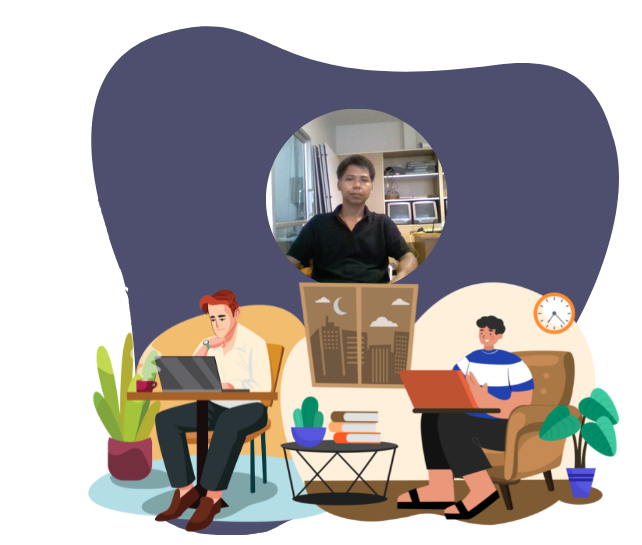
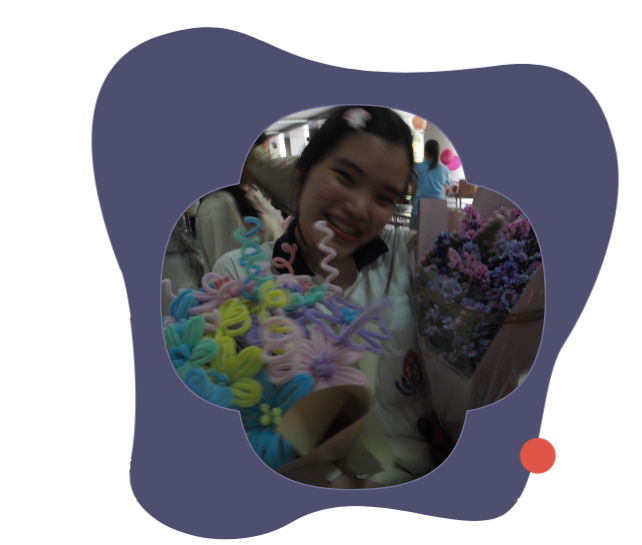
remain

diff --git a/index.html b/index.html
@@ -82,8 +82,8 @@
                         <div class="container">
                             <div class="number-email-cv">
                                 <ul class="number-email">
-                                    <li>มือถือ: (+66) 09-7247-812888</li>
-                                    <li>อีเมล์: pattanadevelop@gmail.com</li>
+                                    <li>มือถือ: (+66) 09-2934-958</li>
+                                    <li>อีเมล์: 31885@ds.ac.th</li>
                                 </ul>
                                     <li><a href="index.html">ไทย</a> | <a href="index-en.html">อังกฤษ</a></li>
                             </div>
@@ -91,10 +91,10 @@
                                 <div class="col-lg-5">
                                     <div class="about-content pt-100 rpt-0 animate-element delay5 fadeInUp">
                                         <span class="sub-title mb-15 animate-element delay3 fadeInUp">เกี่ยวกับฉัน</span>
-                                        <h2 class="slide-title animate-element delay5 fadeInUp">สวัสดีขอรับ,<br> ผม <span class="text-typed a-typed a-typed-about" data-text="พัฒนา บุญถึง"></span></h2>
+                                        <h2 class="slide-title animate-element delay5 fadeInUp">สวัสดีขอรับ,<br> ผม <span class="text-typed a-typed a-typed-about" data-text="วิมลสิริ ธรรมพันดุง"></span></h2>
                                         <h3 class="animate-element delay7 fadeInUp">โรงเรียนดาราสมุทร ศรีราชา</h3>
-                                        <p class="animate-element delay8 fadeInUp">วัน เดือน ปีเกิด<b>::)</b>  10 สิงหาคม 2521.</p>
-                                        <p class="animate-element delay8 fadeInUp">ชื่อเล่น<b>::)</b>  ยางมะตอย.</p>
+                                        <p class="animate-element delay8 fadeInUp">วัน เดือน ปีเกิด<b>::)</b>  12 กันยายน 2006.</p>
+                                        <p class="animate-element delay8 fadeInUp">ชื่อเล่น<b>::)</b>  ไอซ์.</p>
                                         <p class="animate-element delay8 fadeInUp">คติประจำใจ<b>::)</b>  อนาคตขึ้นอยู่กับสิ่งที่เราทำในปัจจุบัน.</p>
                                         <div class="social-style-one mt-55 rmt-35 animate-element delay10 fadeInUp">
                                             <a href="https://www.facebook.com/sirachadevelop"><i class="fab fa-facebook-f"></i></a>
@@ -124,7 +124,7 @@
                                     <div class="service-image animate-element delay4 fadeInUp">
                                         <span class="sub-title mb-75">ไลท์สไตล์</span>
                                         <div class="service-inner-images">
-                                            <img src="assets/images/lifestyle/lifestyle.png" alt="Service">
+                                            <img src="assets/images/lifestyle/lifestyles.png" alt="Service">
                                             <img class="shape-one animate-element delay6 bounceIn" src="assets/images/lifestyle/shape-one-dark.png" alt="shape">
                                             <img class="shape-two animate-element delay8 bounceIn" src="assets/images/lifestyle/shape-two-dark.png" alt="shape">
                                         </div>
@@ -147,13 +147,13 @@
                                                 <div class="icon">
                                                     <img src="assets/images/lifestyle/service-icon2.png" alt="Icon">
                                                 </div>
-                                                <h4>เล่นเฟสต์บุ๊ค</h4>
+                                                <h4>ร้องเพลง</h4>
                                             </div>
                                             <div class="service-item">
                                                 <div class="icon">
                                                     <img src="assets/images/lifestyle/service-icon3.png" alt="Icon">
                                                 </div>
-                                                <h4>ดูยูทูป</h4>
+                                                <h4>ทำงานบ้าน</h4>
                                             </div>
                                             <div class="service-item">
                                                 <div class="icon">
@@ -310,28 +310,28 @@
                             </div>
                             <div class="portfolio-wrap">
                                 <div class="portfolio-item animate-element delay11 fadeInUp">
-                                    <img src="assets/images/portfolio/portfolio_1.png" alt="Portfolio">
+                                    <img src="assets/images/portfolio/port01.png" alt="Portfolio">
                                 </div>
                                 <div class="portfolio-item animate-element delay13 fadeInUp">
-                                    <img src="assets/images/portfolio/portfolio_2.png" alt="Portfolio">
+                                    <img src="assets/images/portfolio/port02.png" alt="Portfolio">
                                 </div>
                                 <div class="portfolio-item">
-                                    <img src="assets/images/portfolio/portfolio_3.png" alt="Portfolio">
+                                    <img src="assets/images/portfolio/port03.png" alt="Portfolio">
                                 </div>
                                 <div class="portfolio-item">
-                                    <img src="assets/images/portfolio/portfolio_4.png" alt="Portfolio">
+                                    <img src="assets/images/portfolio/port04.png" alt="Portfolio">
                                 </div>
                                 <div class="portfolio-item">
-                                    <img src="assets/images/portfolio/portfolio_5.png" alt="Portfolio">
+                                    <img src="assets/images/portfolio/port05.png" alt="Portfolio">
                                 </div>
                                 <div class="portfolio-item">
-                                    <img src="assets/images/portfolio/portfolio_6.png" alt="Portfolio">
+                                    <img src="assets/images/portfolio/port06.png" alt="Portfolio">
                                 </div>
                                 <div class="portfolio-item">
-                                    <img src="assets/images/portfolio/portfolio_7.png" alt="Portfolio">
+                                    <img src="assets/images/portfolio/port07.png" alt="Portfolio">
                                 </div>
                                 <div class="portfolio-item">
-                                    <img src="assets/images/portfolio/portfolio_8.png" alt="Portfolio">
+                                    <img src="assets/images/portfolio/port08.png" alt="Portfolio">
                                 </div>
                             </div>
                         </div>
@@ -347,12 +347,12 @@
                                    <h2>ช่องทางการติดต่อ สื่อสาร</h2>
                                </div>
                                <span class="country list-inline-item animate-element delay9 fadeInUp">ศรีราชา, ชลบุรี</span>
-                               <h3 class="animate-element delay6 fadeInUp">pattanadevelop@gmail.com</h3>
-                               <h4 class="number list-inline-item animate-element delay10 fadeInUp">(+66) 09-7247-8128</h4>
+                               <h3 class="animate-element delay6 fadeInUp">31885@ds.ac.th</h3>
+                               <h4 class="number list-inline-item animate-element delay10 fadeInUp">(+66) 09-5293-4958</h4>
                            </div>
                         </div>
                         <div class="footer-bottom-girl animate-element delay12 zoomIn">
-                           <img src="assets/images/contact/contact.png" alt="Footer Contact">
+                           <img src="assets/images/contact/shinnosuke.png" alt="Footer Contact">
                        </div>
                         <div class="footer-bottom-shape">
                             <img src="assets/images/contact/footer-bottom-shape.png" alt="Shape">

diff --git a/index-en.html b/index-en.html
@@ -6,7 +6,7 @@
     <meta charset="utf-8" />
     <meta http-equiv="x-ua-compatible" content="ie=edge" />
     <meta name="description" content="Port Folio, CV, Resume, Profiles, Portfolio" />
-    <meta name="author" content="Mr.Pattana Boonthung">
+    <meta name="author" content="Mss.Wimonsiri Thampundung">
     <meta name="viewport" content="width=device-width, initial-scale=1, shrink-to-fit=no" />
 
     <!--====== Title ======-->
@@ -80,8 +80,8 @@
                         <div class="container">
                             <div class="number-email-cv">
                                 <ul class="number-email">
-                                    <li>Call me:(+66) 09-7247-8128</li>
-                                    <li>pattanadevelop@gmail.com</li>
+                                    <li>Call me:(+66) 09-2934-4958</li>
+                                    <li>31885@ds.ac.th</li>
                                 </ul>
                                     <li><a href="index.html">Thai</a> | <a href="index-en.html">English</a></li>
                             </div>
@@ -91,8 +91,8 @@
                                         <span class="sub-title mb-15 animate-element delay3 fadeInUp">About Me</span>
                                         <h2 class="slide-title animate-element delay5 fadeInUp">Hi,<br> I’m <span class="text-typed a-typed a-typed-about" data-text="Pattana Boonthung"></span></h2>
                                         <h3 class="animate-element delay7 fadeInUp">Darasamutr School</h3>
-                                        <p class="animate-element delay8 fadeInUp">Birthday<b>:</b>  10 August 1992.</p>
-                                        <p class="animate-element delay8 fadeInUp">Nickname<b>:</b>  Ma-Toy.</p>
+                                        <p class="animate-element delay8 fadeInUp">Birthday<b>:</b>  12 September 2006.</p>
+                                        <p class="animate-element delay8 fadeInUp">Nickname<b>:</b>  Ice.</p>
                                         <p class="animate-element delay8 fadeInUp">Epigram<b>:</b>  The future depends on what we do in the present.</p>
                                         <div class="social-style-one mt-55 rmt-35 animate-element delay10 fadeInUp">
                                             <a href="https://www.facebook.com/sirachadevelop"><i class="fab fa-facebook-f"></i></a>
@@ -122,7 +122,7 @@
                                     <div class="service-image animate-element delay4 fadeInUp">
                                         <span class="sub-title mb-75">Lifestyle</span>
                                         <div class="service-inner-images">
-                                            <img src="assets/images/lifestyle/lifestyle.png" alt="Service">
+                                            <img src="assets/images/lifestyle/lifestyles.png" alt="Service">
                                             <img class="shape-one animate-element delay6 bounceIn" src="assets/images/lifestyle/shape-one-dark.png" alt="shape">
                                             <img class="shape-two animate-element delay8 bounceIn" src="assets/images/lifestyle/shape-two-dark.png" alt="shape">
                                         </div>
@@ -145,7 +145,7 @@
                                                 <div class="icon">
                                                     <img src="assets/images/lifestyle/service-icon2.png" alt="Icon">
                                                 </div>
-                                                <h4>Facebook</h4>
+                                                <h4>Sing a song</h4>
                                             </div>
                                             <div class="service-item">
                                                 <div class="icon">
@@ -309,28 +309,28 @@
                               </div>
                             <div class="portfolio-wrap">
                                 <div class="portfolio-item animate-element delay11 fadeInUp">
-                                    <img src="assets/images/portfolio/portfolio_1.png" alt="Portfolio">
+                                    <img src="assets/images/portfolio/port01.png" alt="Portfolio">
                                 </div>
                                 <div class="portfolio-item animate-element delay13 fadeInUp">
-                                    <img src="assets/images/portfolio/portfolio_2.png" alt="Portfolio">
+                                    <img src="assets/images/portfolio/port02.png" alt="Portfolio">
                                 </div>
                                 <div class="portfolio-item">
-                                    <img src="assets/images/portfolio/portfolio_3.png" alt="Portfolio">
+                                    <img src="assets/images/portfolio/port03.png" alt="Portfolio">
                                 </div>
                                 <div class="portfolio-item">
-                                    <img src="assets/images/portfolio/portfolio_4.png" alt="Portfolio">
+                                    <img src="assets/images/portfolio/port04.png" alt="Portfolio">
                                 </div>
                                 <div class="portfolio-item">
-                                    <img src="assets/images/portfolio/portfolio_5.png" alt="Portfolio">
+                                    <img src="assets/images/portfolio/port05.png" alt="Portfolio">
                                 </div>
                                 <div class="portfolio-item">
-                                    <img src="assets/images/portfolio/portfolio_6.png" alt="Portfolio">
+                                    <img src="assets/images/portfolio/port06.png" alt="Portfolio">
                                 </div>
                                 <div class="portfolio-item">
-                                    <img src="assets/images/portfolio/portfolio_7.png" alt="Portfolio">
+                                    <img src="assets/images/portfolio/port07.png" alt="Portfolio">
                                 </div>
                                 <div class="portfolio-item">
-                                    <img src="assets/images/portfolio/portfolio_8.png" alt="Portfolio">
+                                    <img src="assets/images/portfolio/port08.png" alt="Portfolio">
                                 </div>
                             </div>
                         </div>
@@ -344,8 +344,8 @@
                                    <h2>Stay Connected</h2>
                                </div>
                                <span class="country list-inline-item animate-element delay9 fadeInUp">Si Racha, Chonburi</span>
-                               <h3 class="animate-element delay6 fadeInUp">pattanadevelop@gmail.com</h3>
-                               <h4 class="number list-inline-item animate-element delay10 fadeInUp">(+66) 09-7247-8128</h4>
+                               <h3 class="animate-element delay6 fadeInUp">31885@ds.ac.th</h3>
+                               <h4 class="number list-inline-item animate-element delay10 fadeInUp">(+66) 09-2934-4958</h4>
                                <!--<div class="social-style-two mt-25 animate-element delay11 fadeInUp">
                                     <a href="#"><img src="assets/images/contact/social-dribbble.png" alt="Social"></a>
                                     <a href="#"><img src="assets/images/contact/social-behance.png" alt="Social"></a>
@@ -354,7 +354,7 @@
                            </div>
                         </div>
                         <div class="footer-bottom-girl animate-element delay12 zoomIn">
-                           <img src="assets/images/contact/contact.png" alt="Footer Contact">
+                           <img src="assets/images/contact/shinnosuke.png" alt="Footer Contact">
                        </div>
                         <div class="footer-bottom-shape">
                             <img src="assets/images/contact/footer-bottom-shape.png" alt="Shape">
